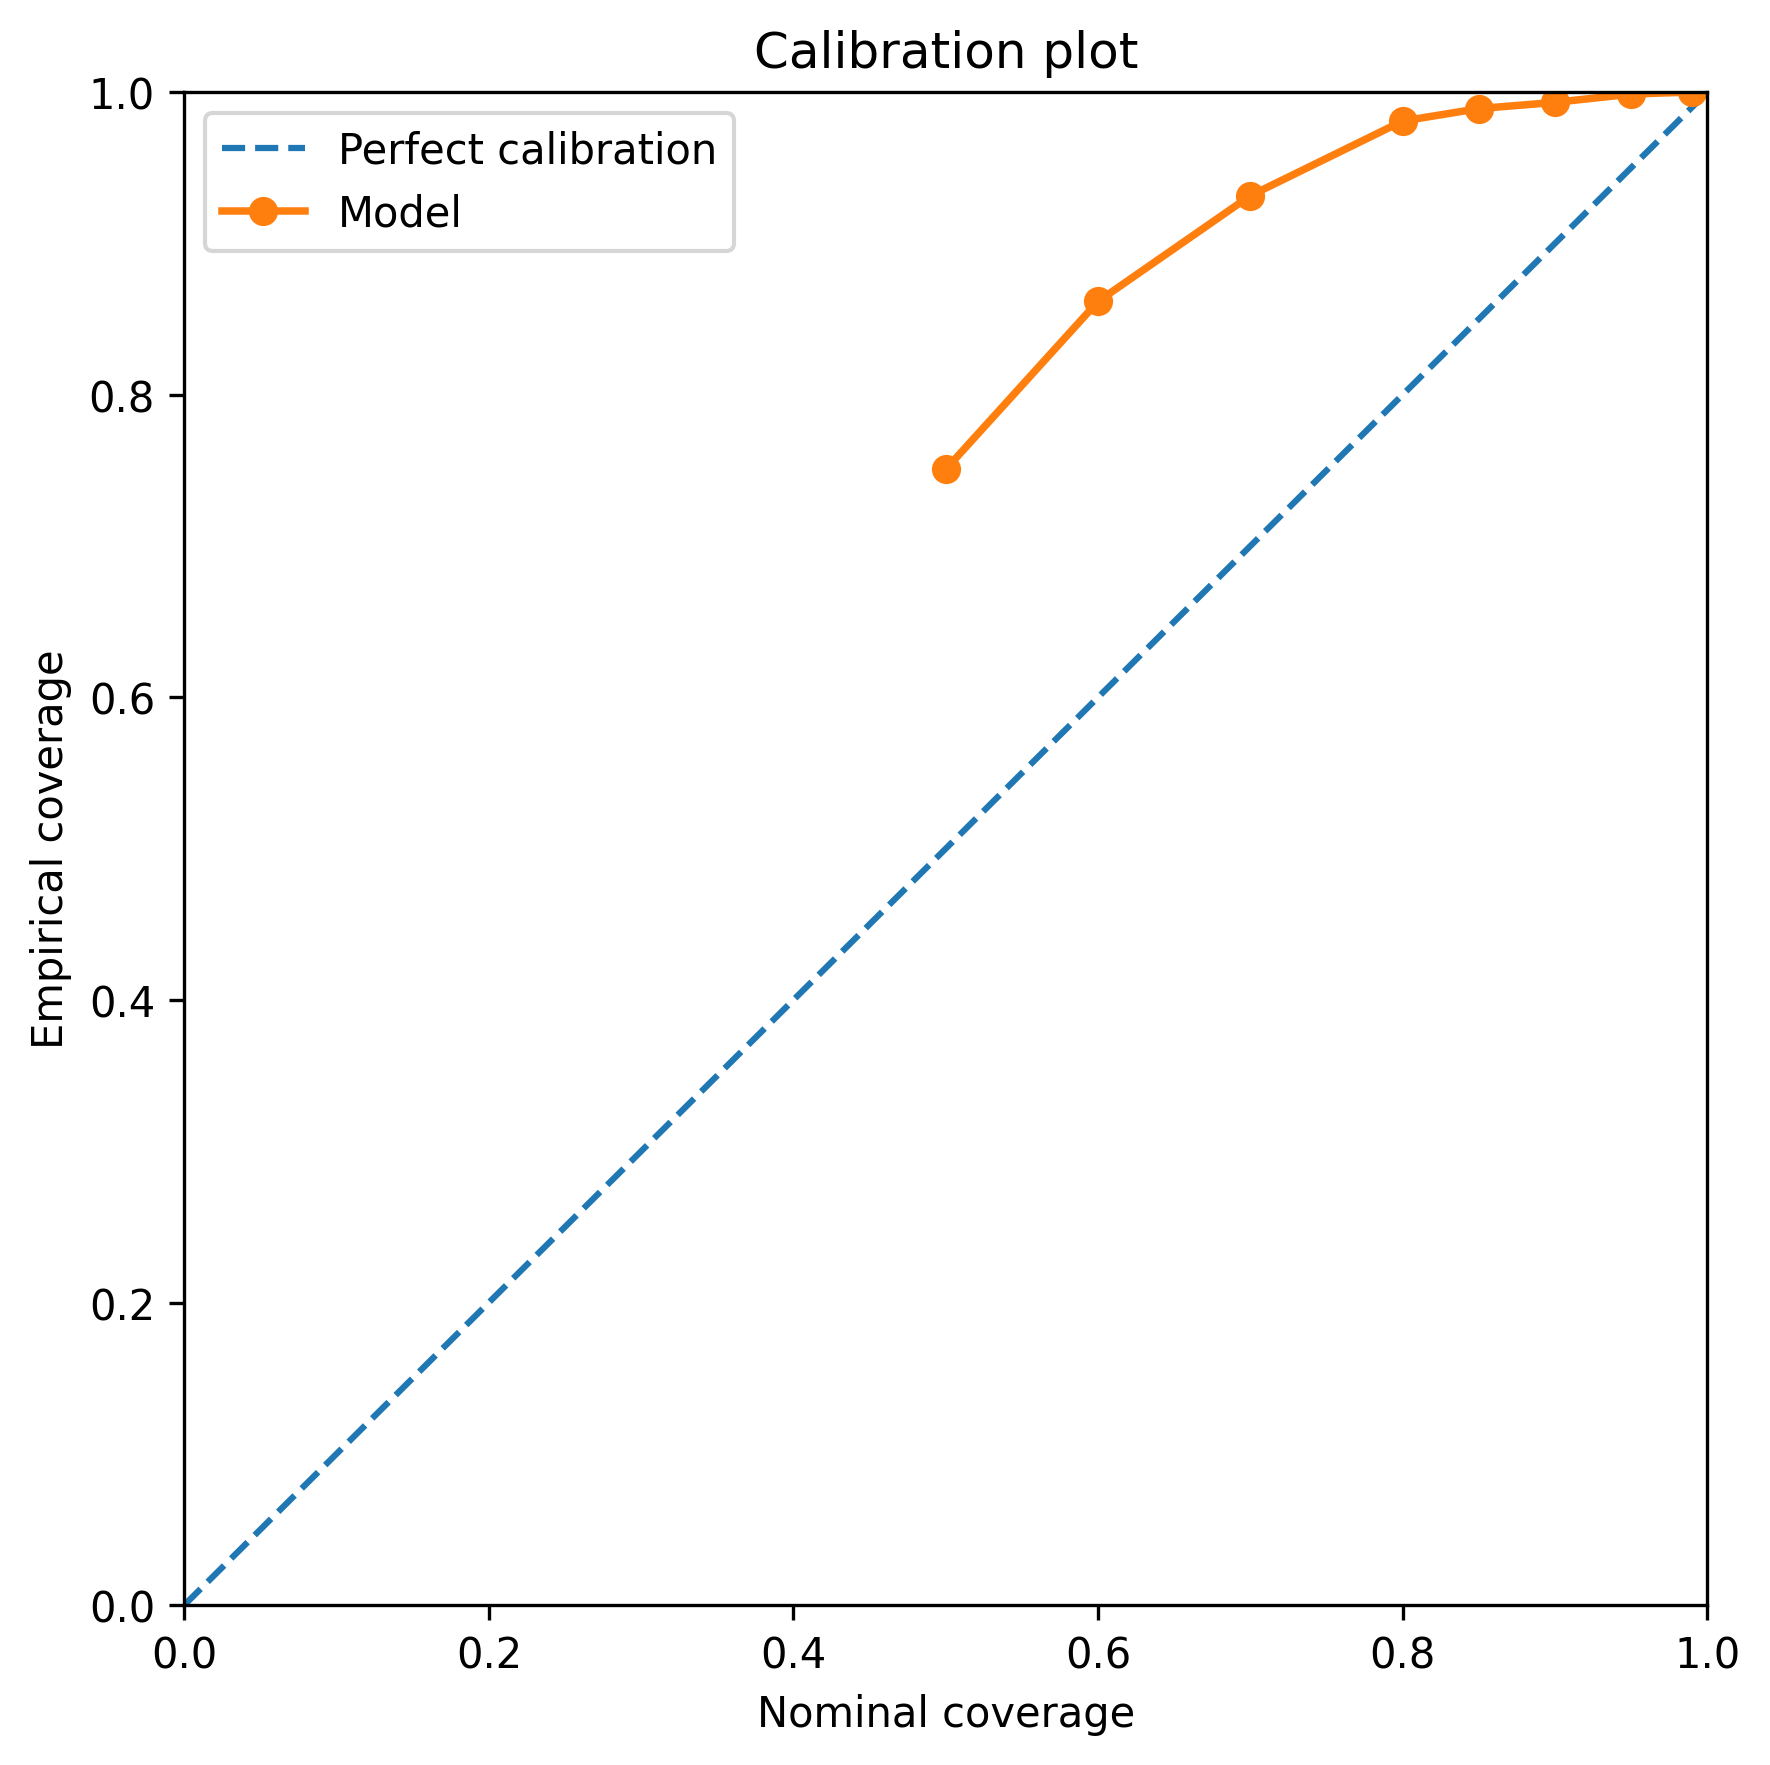
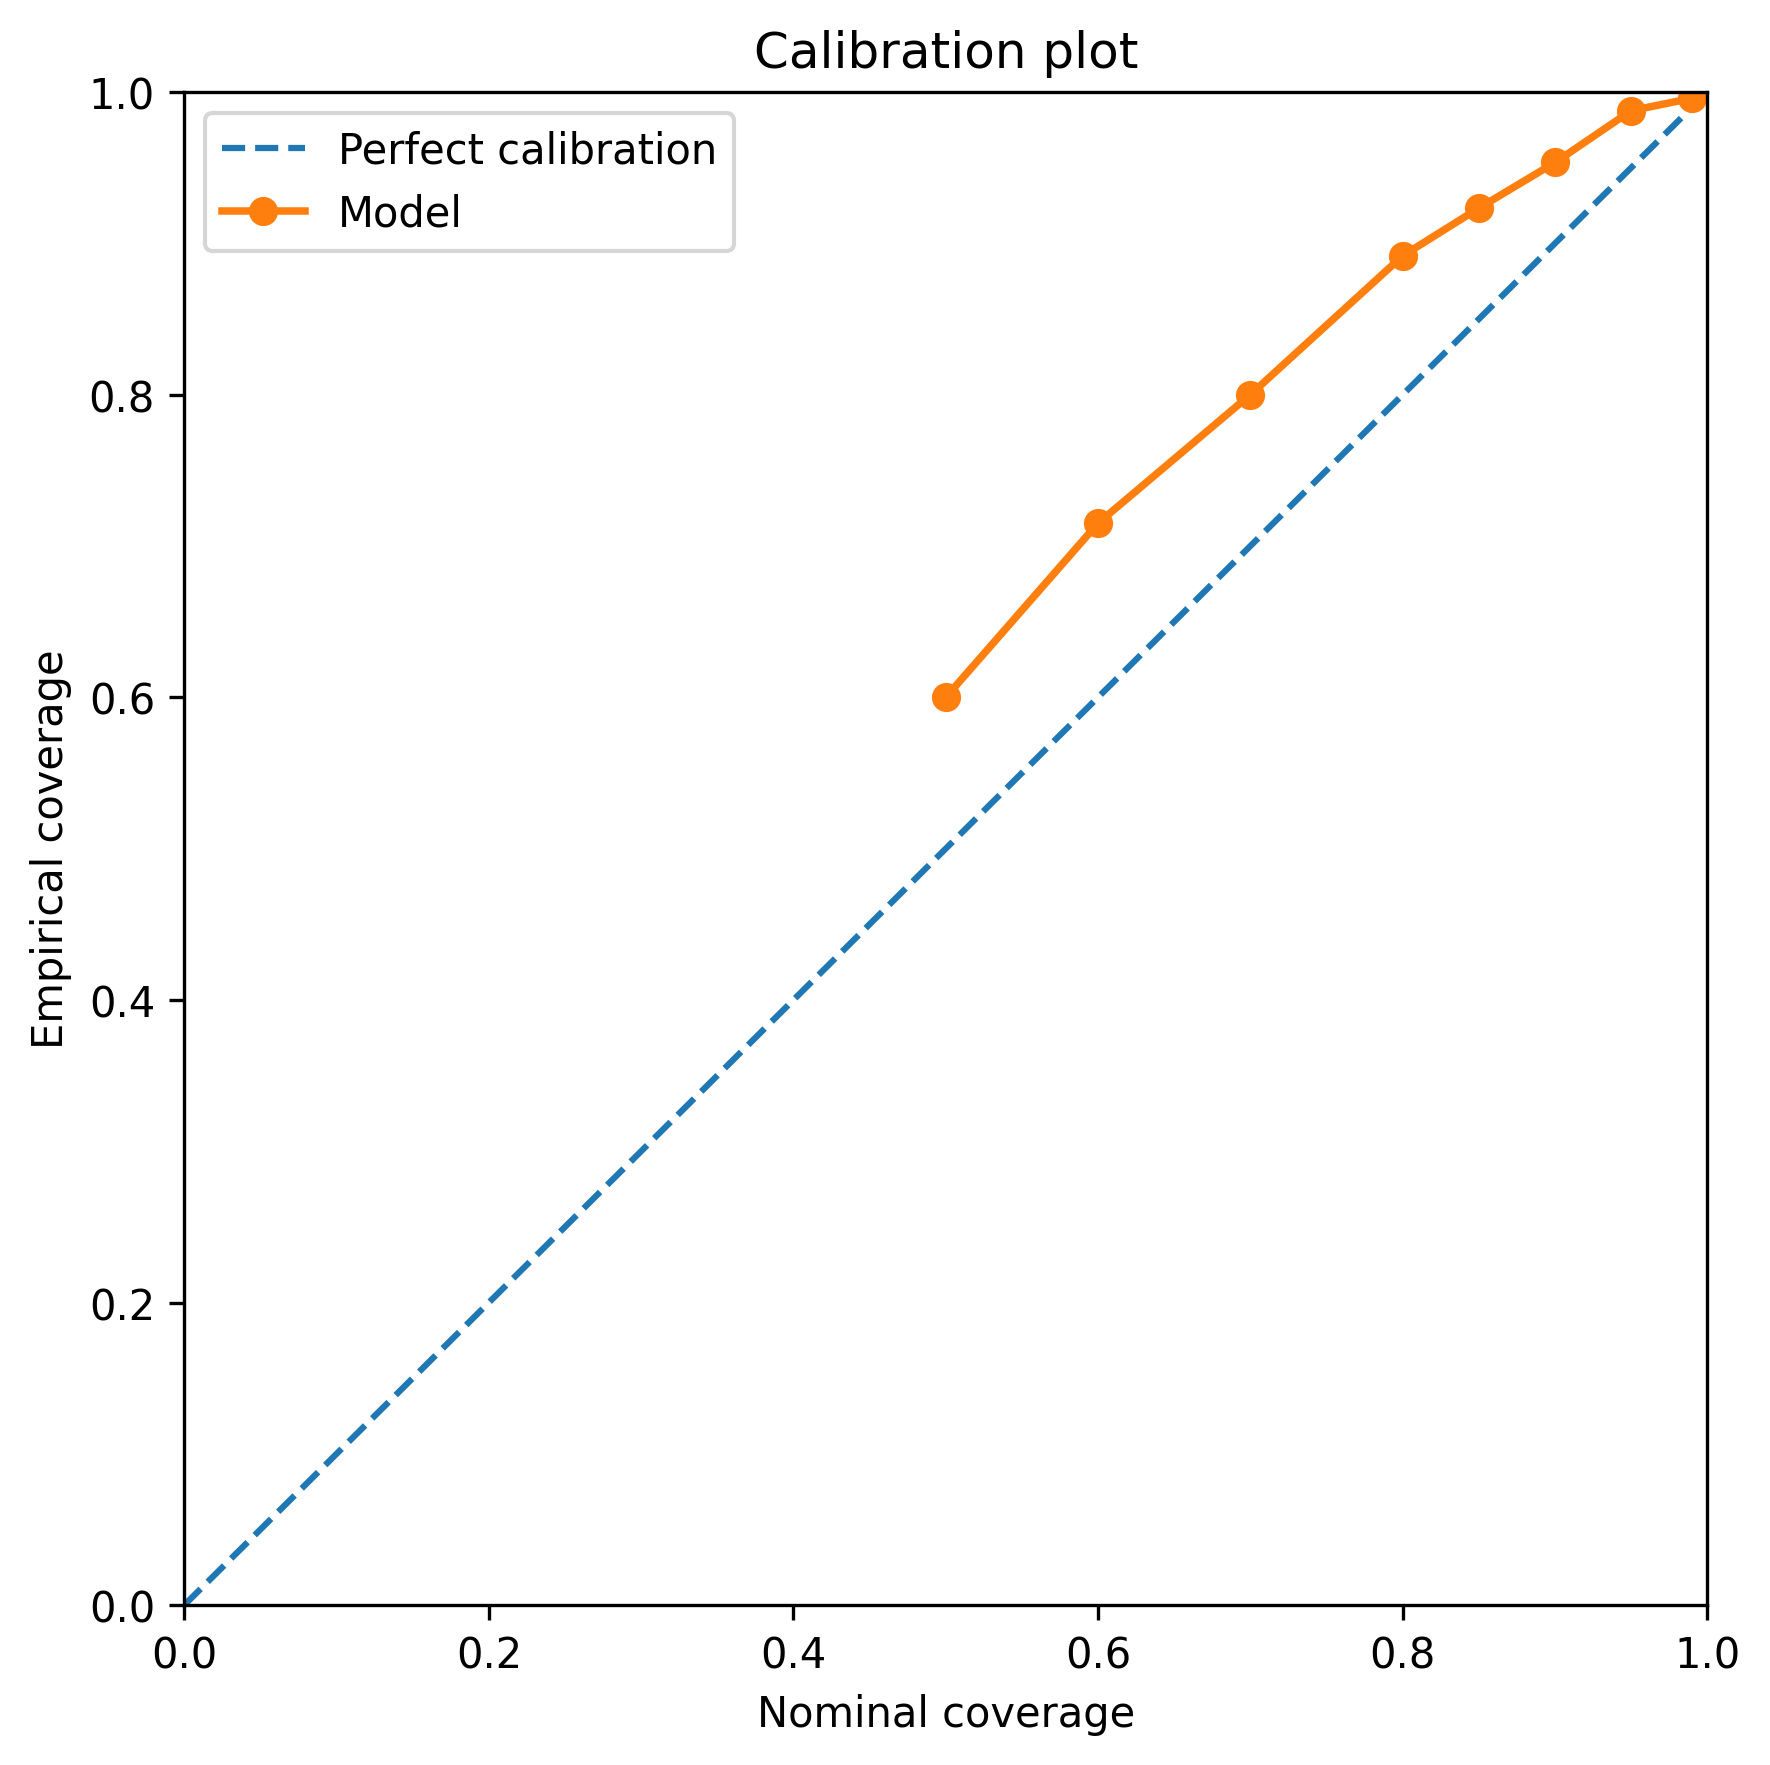
changes

diff --git a/scripts/05_evaluate.py b/scripts/05_evaluate.py
@@ -22,7 +22,7 @@ from src.evaluation.metrics import (
     compute_coverage,
     compute_sharpness,
 )
-from src.evaluation.calibration import compute_calibration_data, plot_calibration
+from src.evaluation.calibration import compute_calibration_data, plot_calibration, calibrate_temperature
 from src.evaluation.regimes import classify_regimes, evaluate_by_regime
 
 
@@ -158,6 +158,22 @@ if __name__ == "__main__":
     y_test = bayes_results["y_true"]
     mu_bayes = bayes_results["predictive_mean"]
     sigma_bayes = bayes_results["predictive_std"]
+
+    bayes_val_results = predict_bayesian(
+        model=bayesian_model,
+        loader=val_loader,
+        device=device,
+        T=mc_samples,
+    )
+
+    tau = calibrate_temperature(
+        y_true=bayes_val_results["y_true"],
+        predictive_mean=bayes_val_results["predictive_mean"],
+        predictive_std=bayes_val_results["predictive_std"],
+    )
+    
+    print(f"Temperature scaling tau: {tau:.4f}")
+    sigma_bayes = sigma_bayes/tau
 
     bayesian_global_metrics = compute_probabilistic_metrics(
         y_true=y_test,

diff --git a/src/evaluation/calibration.py b/src/evaluation/calibration.py
@@ -1,9 +1,9 @@
 from pathlib import Path
-
+from scipy.optimize import minimize_scalar
 import matplotlib.pyplot as plt
 import numpy as np
 
-from src.evaluation.metrics import build_gaussian_interval, compute_coverage
+from src.evaluation.metrics import build_gaussian_interval, compute_coverage, compute_nll
 
 
 def _default_levels() -> tuple[float, ...]:
@@ -38,6 +38,16 @@ def compute_calibration_data(
         "empirical": empirical,
     }
 
+def calibrate_temperature(
+        y_true: np.ndarray,
+        predictive_mean: np.ndarray,
+        predictive_std: np.ndarray,
+        bounds: tuple[float, float] = (0.1, 10),
+) -> float:
+    result = minimize_scalar(lambda tau: compute_nll(y_true, predictive_mean, predictive_std / tau),
+                             bounds=bounds,
+                             method="Bounded")
+    return float(result.x)
 
 def plot_calibration(
     calibration_data: dict,

diff --git a/src/training/loss.py b/src/training/loss.py
@@ -5,11 +5,15 @@ def heteroscedastic_gaussian_nll(
     logvar: torch.Tensor,
     y: torch.Tensor,
     reduction: str = "mean",
-    min_logvar: float = -10.0,
-    max_logvar: float = 10.0,
+    min_logvar: float = -6.0,
+    max_logvar: float = 2.0,
+    logvar_reg: float = 0.01,
 ) -> torch.Tensor:
     logvar = torch.clamp(logvar, min=min_logvar, max=max_logvar)
     loss = 0.5 * (logvar + ((y - mu) ** 2) / torch.exp(logvar))
+
+    if logvar_reg > 0.0:
+        loss = loss + logvar_reg * logvar.pow(2)
 
     if reduction == "mean":
         return loss.mean()

diff --git a/src/training/Bayesian_LSTM_trainer.py b/src/training/Bayesian_LSTM_trainer.py
@@ -62,6 +62,7 @@ def train_one_epoch(
         loss = criterion(mu, logvar, y)
 
         loss.backward()
+        nn.utils.clip_grad_norm_(model.parameters(), max_norm=1.0)
         optimizer.step()
 
         batch_size = X.size(0)
@@ -127,7 +128,7 @@ def predict(
             mu, logvar = model(X)
             mu = mu.squeeze(-1)
             logvar = logvar.squeeze(-1)
-
+            
             sigma2 = torch.exp(logvar)
 
             mu_samples.append(mu.cpu().numpy())
